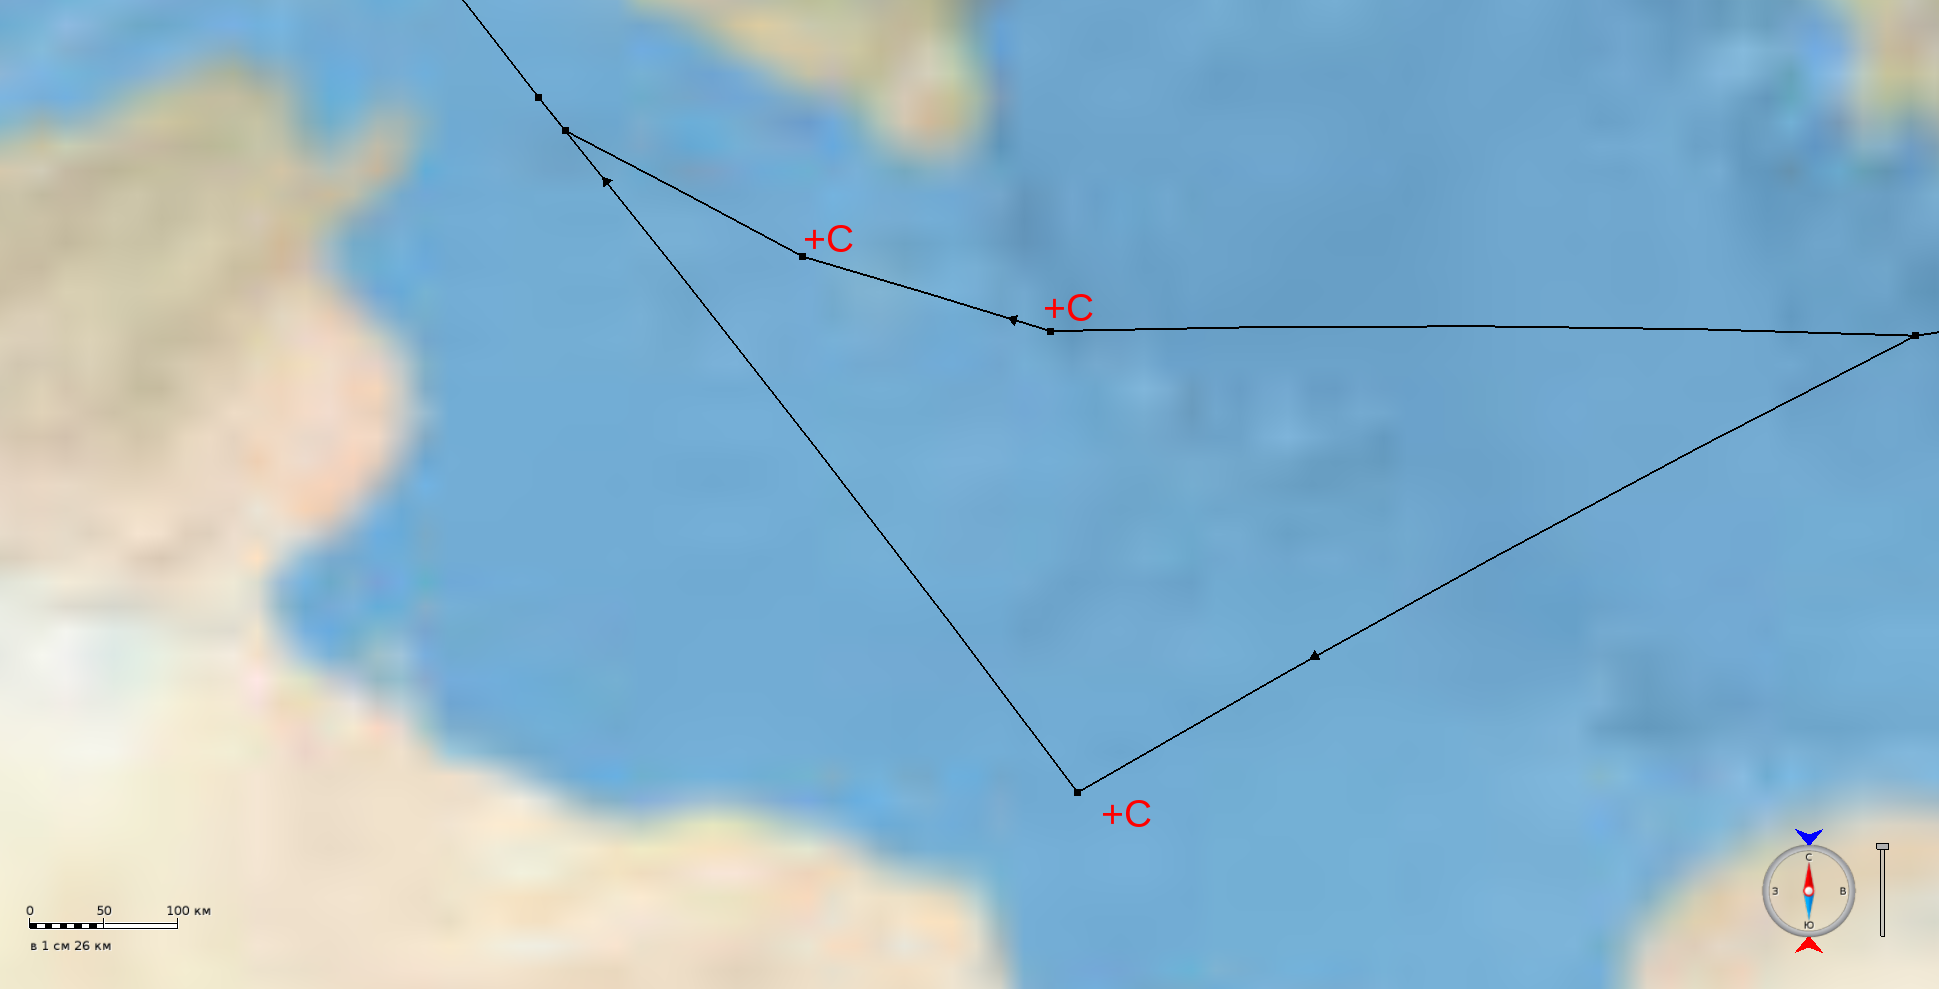
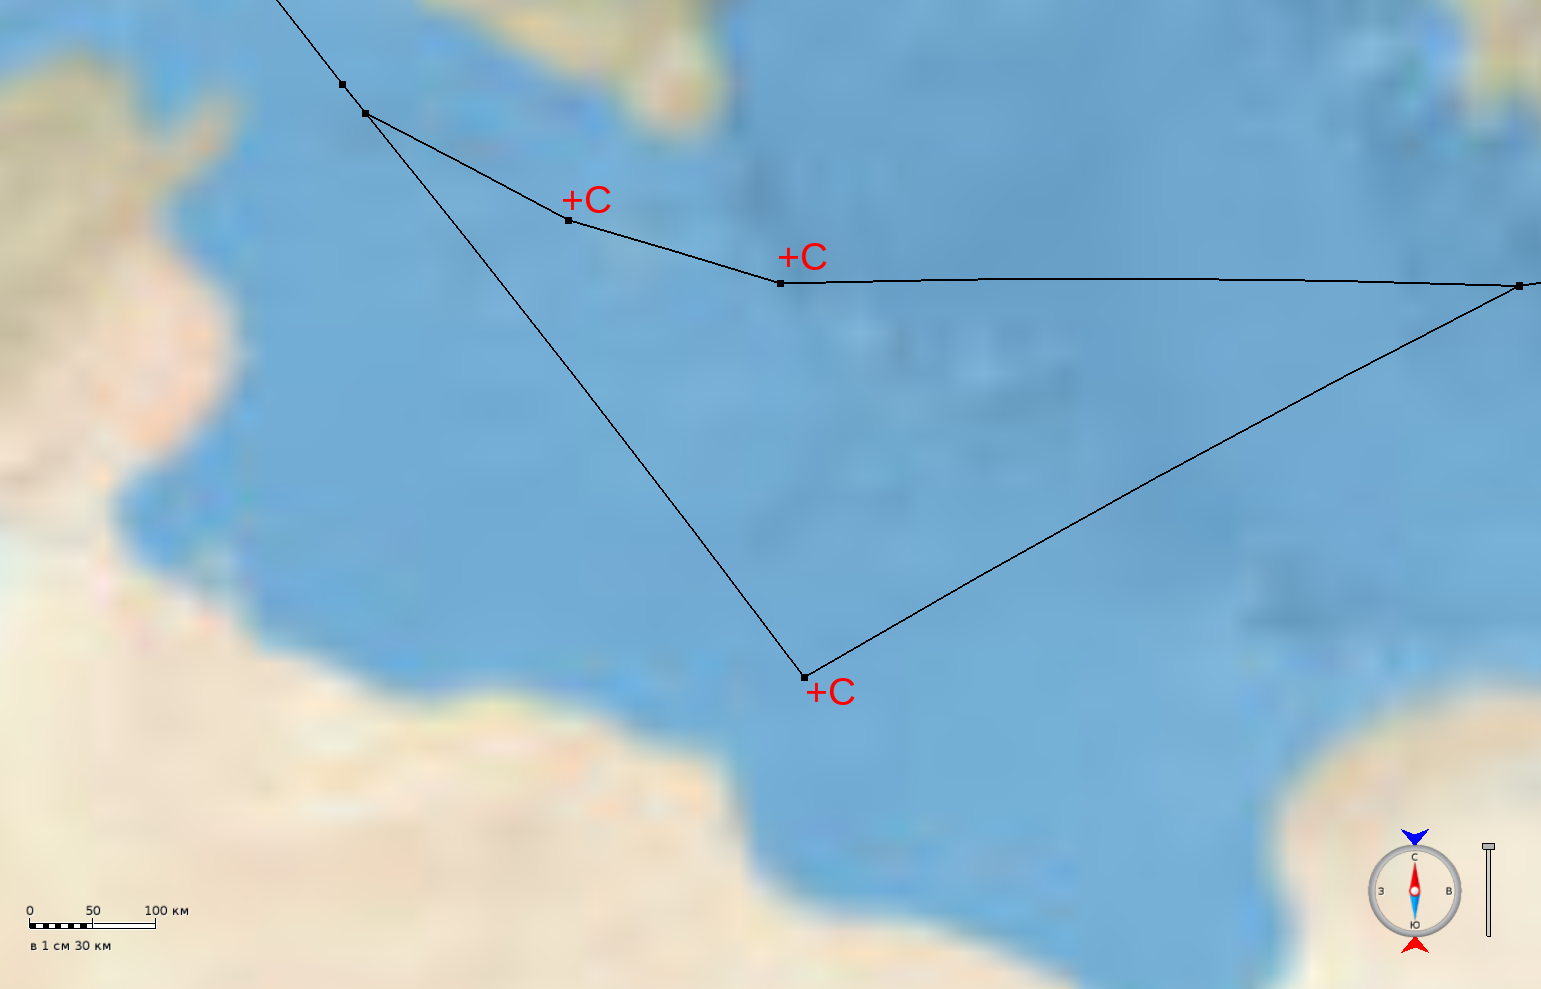
Update one picture

diff --git a/Presentation/Presentation.tex b/Presentation/Presentation.tex
@@ -468,7 +468,8 @@
 \begin{frame}[noframenumbering]{Обновление весов}
     \only<1> {
         \begin{figure}
-            \includegraphics[width=\textwidth]{Solution/potentials-multipliers}
+            \includegraphics[width=\textwidth, clip=true, trim = 120
+            200 0 0]{Solution/potentials-multipliers}
 
             Потенциалы должны быть множителями, а не слагаемыми
         \end{figure}
@@ -478,12 +479,14 @@
         \begin{columns}
             \column{.5\textwidth}
             \begin{figure}
-                \includegraphics[clip=true, trim = 280pt 0 20pt 0, width=\textwidth]{Solution/potentials-update/accum1}
+                \includegraphics[clip=true, trim = 280pt 0 20pt 0,
+                width=\textwidth]{Solution/potentials-update/accum1}
             \end{figure}
 
             \column{.5\textwidth}
             \begin{figure}
-                \includegraphics[clip=true, trim = 280pt 0 20pt 0, width=\textwidth]{Solution/potentials-update/max1}
+                \includegraphics[clip=true, trim = 280pt 0 20pt 0,
+                width=\textwidth]{Solution/potentials-update/max1}
             \end{figure}
         \end{columns}
 
